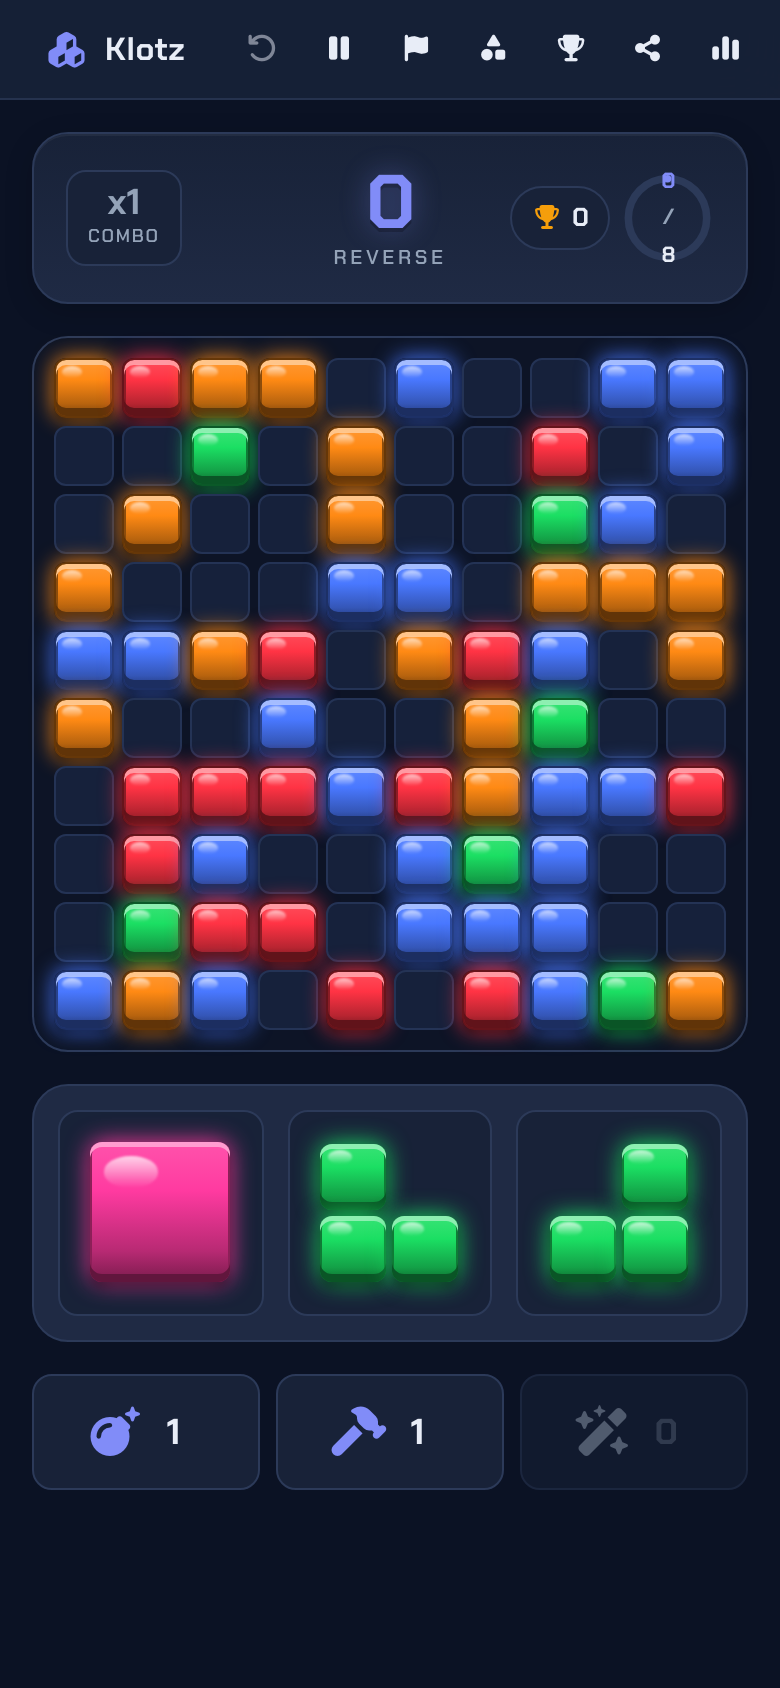
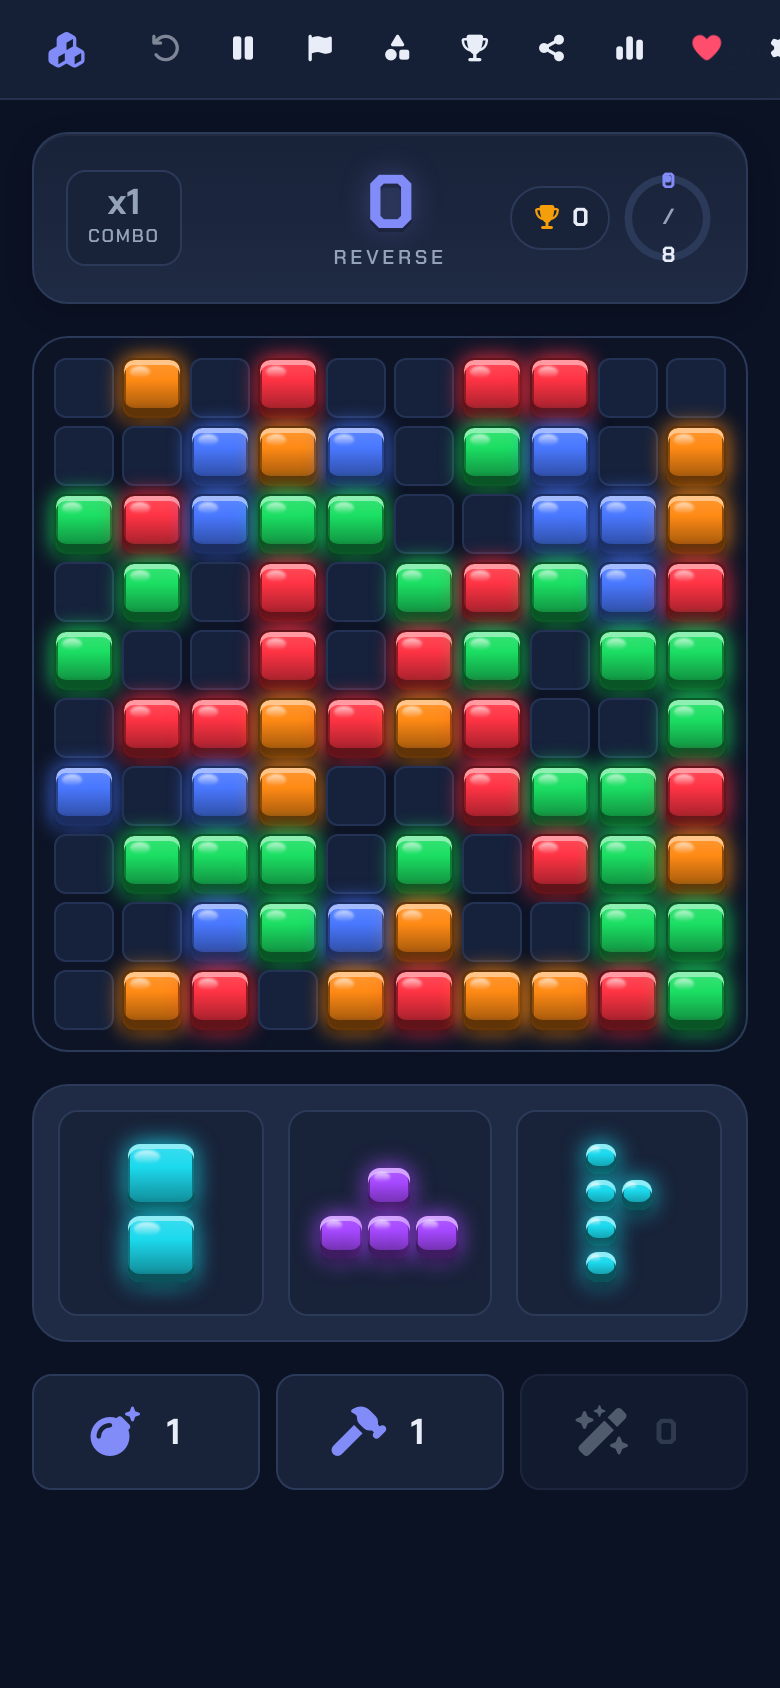
ui: Topbar-Schriftzug "Klotz" auf Mobile ausblenden
Auf schmalen Mobile-Screens (<= 480px) reicht das Cubes-Logo --
der "Klotz"-Text wird per CSS unterdrueckt, damit Action-Icons und
der Daily-Streak-Badge nicht in die Enge geraten. Logo selbst und
aria-Label am Brand-Button bleiben unveraendert, der Tap-Bereich
ebenso.

Version 0.2.4

diff --git a/src/lib/ui/Topbar.svelte b/src/lib/ui/Topbar.svelte
@@ -161,6 +161,14 @@
     letter-spacing: 0.02em;
   }
 
+  /* Auf schmalen Mobile-Screens reicht das Logo -- Schriftzug weg,
+     damit die Action-Icons und der Streak-Badge nicht in die Enge geraten. */
+  @media (max-width: 480px) {
+    .title {
+      display: none;
+    }
+  }
+
   .streak {
     display: inline-flex;
     align-items: center;
